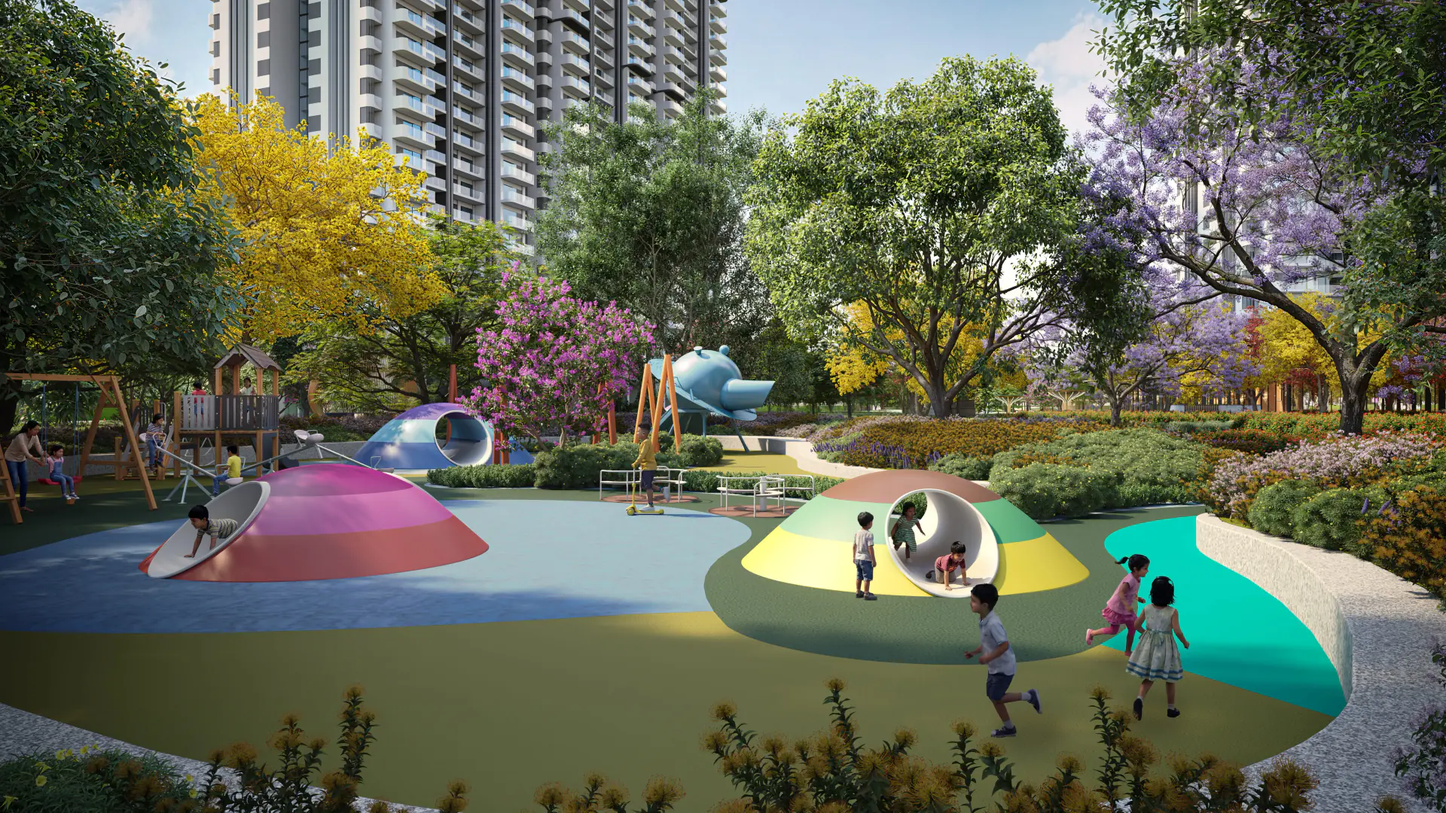
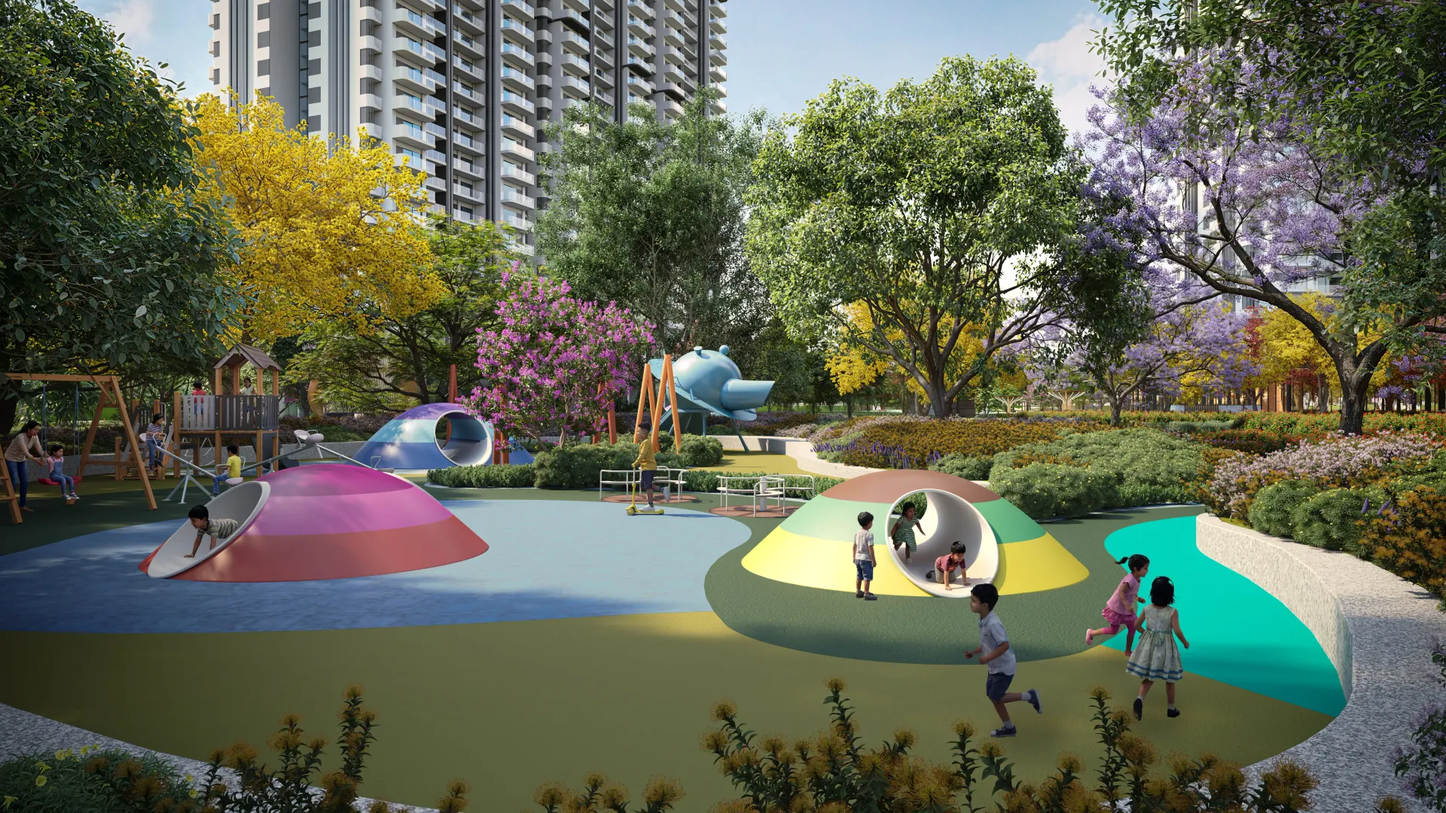
Add Tree Closeup, Kids Play Area and Drop-off slides to gallery
Images resized to 1920px WebP (~340-495 KB each).

Changed region(s): [[0.25, 0.1833, 0.2812, 0.275], [0.1562, 0.1222, 0.1875, 0.1528]]

diff --git a/src/sections/Gallery.tsx b/src/sections/Gallery.tsx
@@ -47,6 +47,24 @@ const carouselSlides = [
     title: "Homes That Open To Naturel",
     description: "Tranquil interiors crafted with soothing aesthetics to melt away daily stress and promote everyday well-being."
   },
+  {
+    id: 7,
+    image: "/images/M3M-IMT-Manesar-Tree-Closeup.webp",
+    title: "Living Canopy",
+    description: "Mature Trees And Layered Greens That Frame Every View."
+  },
+  {
+    id: 8,
+    image: "/images/M3M-IMT-Manesar-Kids-Play-Area.webp",
+    title: "Kids' Play Area",
+    description: "Safe, Open Spaces Where Little Ones Play Amid Nature."
+  },
+  {
+    id: 9,
+    image: "/images/M3M-IMT-Manesar-Dropoff-Cam.webp",
+    title: "Drop-off Plaza",
+    description: "A Graceful, Green-lined Arrival At Your Doorstep."
+  },
 ];
 
 const slidesWithClones = [carouselSlides.at(-1)!, ...carouselSlides, carouselSlides[0]];
